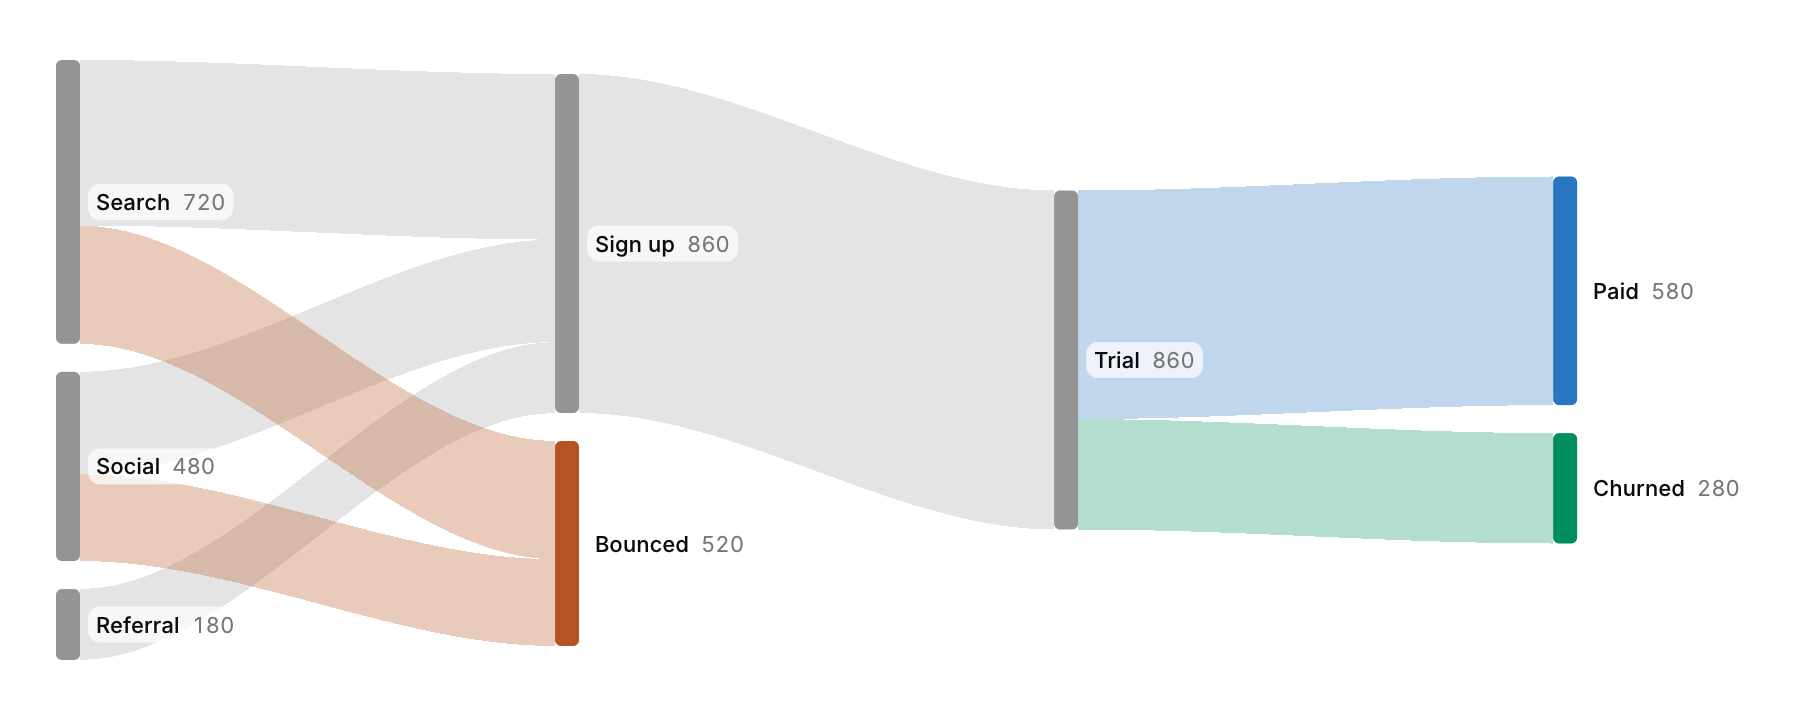
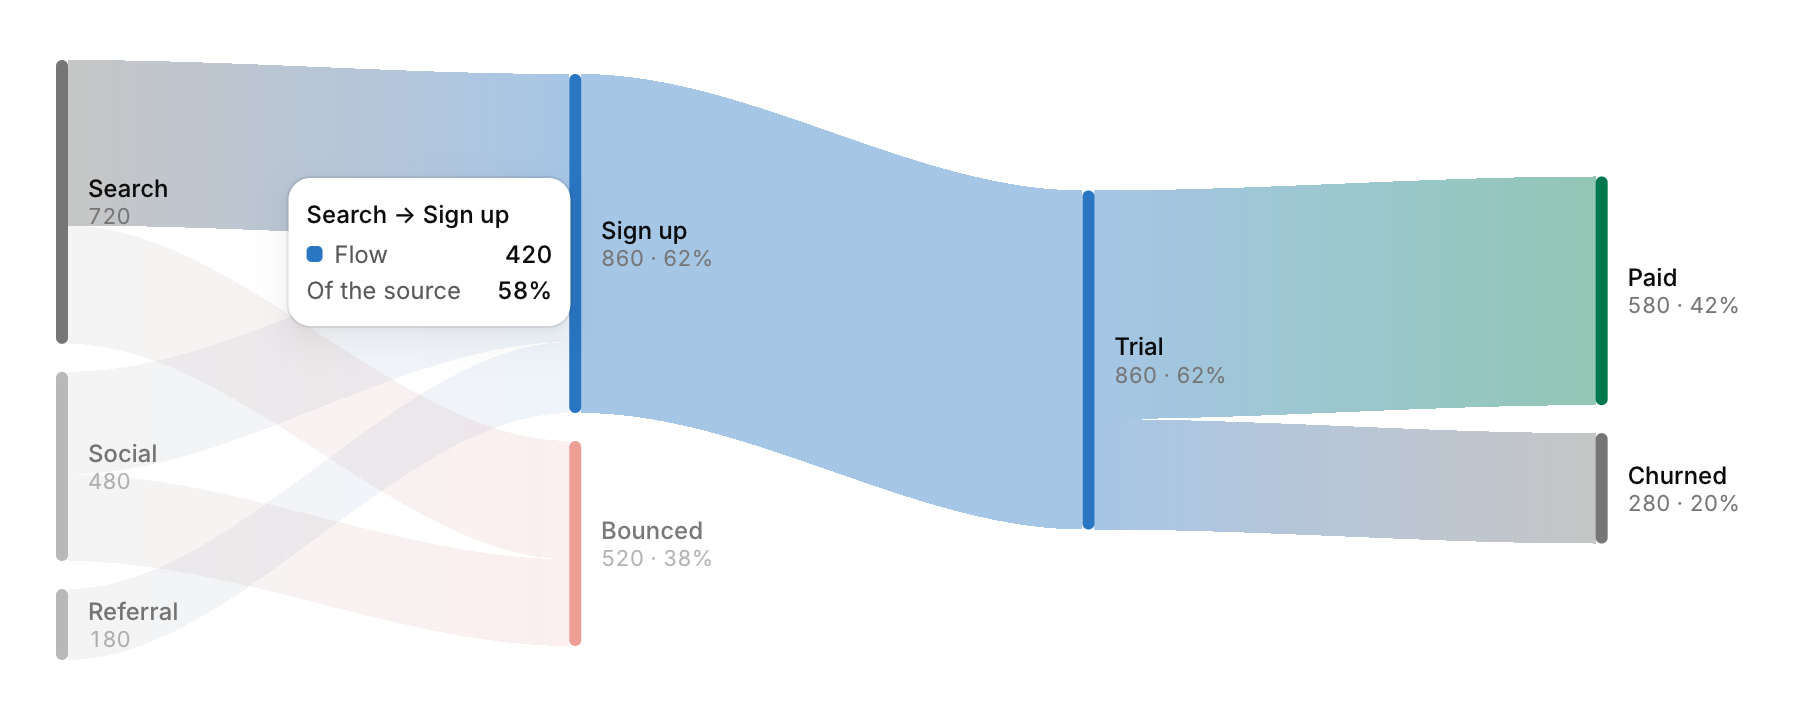
Sankey: slim nodes by meaning, shaded flows, traced paths
Flat bands crossed into a muddy blur, labels sat on dark plates over the
flows, and the nodes were wide gray bars. Nodes are now 6 point rounded
bars colored by meaning: the new `node_colors` option takes one color
per node, and nodes left unset fall back to the palette for outcomes and
neutral gray for sources and steps, as before.

Each flow fades from its source's color to its target's at a low
opacity. Hovering a node or a flow lights its whole path, everything
upstream and downstream of it, and dims the rest. Labels sit beside the
nodes on two lines, the name over the value and, past the sources, its
share of everything that leaves them; no plates.

A new test checks that a node takes the caller's color. The scene colors
the funnel by meaning and hovers a flow.

diff --git a/src/cui_viz.c b/src/cui_viz.c
@@ -940,8 +940,22 @@ typedef struct {
     float k;                 /* points per unit */
     float *in, *out;
     int *col; int maxcol;
-    int *color;              /* palette slot: sources in order, the rest inherit their main inflow */
+    int *color;              /* palette slot of an outcome, or -1 for neutral */
+    float total;             /* what leaves the sources: the whole the shares are of */
 } cui__sk_geo;
+
+/* A node's label is two lines: its name, then its value and (past the sources) its share of
+ * the whole, "860 · 62%". */
+static const char *cui__sk_value_text(cui_ctx *ui, const cui__sk_geo *g, int i, const char *fmt) {
+    const char *val = cui__fmt_value(ui, fmt, CUI_MAX(g->in[i], g->out[i]));
+    if (g->in[i] <= 0 || g->total <= 0) return val;
+    return cui__frame_printf(ui, "%s \xc2\xb7 %s", val, cui__pct(ui, CUI_MAX(g->in[i], g->out[i]), g->total));
+}
+static void cui__sk_label_widths(cui_ctx *ui, const cui__sk_geo *g, int i, const char *fmt, float *name_w, float *value_w) {
+    float fs = cui__fs(ui, ui->theme.text_sm), fx = cui__fs(ui, ui->theme.text_xs);
+    *name_w = cui__text_width(ui, CUI_FONT_MEDIUM, fs, g->names && g->names[i] ? g->names[i] : "", -1, false);
+    *value_w = cui__text_width(ui, CUI_FONT_BODY, fx, cui__sk_value_text(ui, g, i, fmt), -1, true);
+}
 
 static cui__sk_geo cui__sk_layout(cui_ctx *ui, cui_rect r, const char *const *names, int nn, const cui_sankey_link *links_in, int nl, float nw, const char *fmt) {
     cui__sk_geo g;
@@ -976,12 +990,16 @@ static cui__sk_geo cui__sk_layout(cui_ctx *ui, cui_rect r, const char *const *na
     /* an outcome that ends early (a drop off) stays at its own step; only one fed from the last step sits at the far right,
        so no ribbon has to cross a column of nodes to reach it */
     /* room on the right for the last column's labels */
-    float fs = cui__fs(ui, ui->theme.text_xs), right_w = 0;
+    float right_w = 0;
+    g.total = 0;
+    for (int i = 0; i < nn; i++) if (g.in[i] <= 0) g.total += g.out[i];
     if (g.maxcol > 0)
         for (int i = 0; i < nn; i++)
-            if (g.col[i] == g.maxcol && (g.in[i] > 0 || g.out[i] > 0))
-                right_w = CUI_MAX(right_w, cui__text_width(ui, CUI_FONT_MEDIUM, fs, names && names[i] ? names[i] : "", -1, false) + 6 +
-                                               cui__text_width(ui, CUI_FONT_BODY, fs, cui__fmt_value(ui, fmt, CUI_MAX(g.in[i], g.out[i])), -1, true) + 10);
+            if (g.col[i] == g.maxcol && (g.in[i] > 0 || g.out[i] > 0)) {
+                float nw2, vw2;
+                cui__sk_label_widths(ui, &g, i, fmt, &nw2, &vw2);
+                right_w = CUI_MAX(right_w, CUI_MAX(nw2, vw2) + 12);
+            }
     float span = r.w - right_w - nw;
     /* color goes to the outcomes, the largest first; sources and steps stay neutral, so the eye follows where things end up */
     g.color = cui__frame_alloc(ui, sizeof(int) * (size_t)CUI_MAX(1, nn));
@@ -1038,33 +1056,64 @@ static float cui__bez(float a, float b, float t) {   /* ease between two ends wi
     return a + (b - a) * s;
 }
 
-typedef struct { cui__sk_geo g; const char *format; float nw; float intro; int hover_node, hover_link; float t; cui__tip tip; } cui__sk_paint;
+typedef struct { cui__sk_geo g; const char *format; float nw; float intro; int hover_node, hover_link; float t; cui__tip tip; cui_color *node_c; } cui__sk_paint;
+
+/* A node's color: the caller's, else its palette slot (outcomes), else a neutral gray. */
+static cui_color cui__sk_node_color(cui_ctx *ui, const cui__sk_paint *p, const cui__sk_geo *g, int i) {
+    if (p->node_c && cui__color_set(p->node_c[i])) return cui_color_of(ui, p->node_c[i]);
+    return g->color[i] < 0 ? CUI_C(ui, TEXT_MUTED) : cui__viz_color(ui, (cui_color){ 0 }, g->color[i]);
+}
+
+/* The links on the hovered thing's path: everything upstream of where it starts and
+ * downstream of where it ends. A link hover starts and ends at that link. */
+static bool *cui__sk_path(cui_ctx *ui, const cui__sk_geo *g, int node, int link, bool *on_node) {
+    bool *on = cui__frame_alloc(ui, sizeof(bool) * (size_t)CUI_MAX(1, g->nl));
+    bool *up = cui__frame_alloc(ui, sizeof(bool) * (size_t)CUI_MAX(1, g->nn)), *down = cui__frame_alloc(ui, sizeof(bool) * (size_t)CUI_MAX(1, g->nn));
+    memset(on, 0, sizeof(bool) * (size_t)CUI_MAX(1, g->nl));
+    memset(up, 0, sizeof(bool) * (size_t)CUI_MAX(1, g->nn)); memset(down, 0, sizeof(bool) * (size_t)CUI_MAX(1, g->nn));
+    if (node >= 0) up[node] = down[node] = true;
+    else { up[g->links[link].from] = down[g->links[link].to] = true; on[link] = true; }
+    for (int it = 0; it < g->nn; it++) {   /* bounded, so a cycle cannot hang */
+        bool ch = false;
+        for (int l = 0; l < g->nl; l++) {
+            int a = g->links[l].from, b = g->links[l].to;
+            if (up[b] && !up[a]) { up[a] = true; ch = true; }
+            if (down[a] && !down[b]) { down[b] = true; ch = true; }
+        }
+        if (!ch) break;
+    }
+    for (int l = 0; l < g->nl; l++) if (up[g->links[l].to] || down[g->links[l].from]) on[l] = true;
+    for (int i = 0; i < g->nn; i++) on_node[i] = up[i] || down[i];
+    return on;
+}
 
 static void cui__paint_sankey(cui_ctx *ui, cui_node *n, void *data) {
     cui__sk_paint *p = data;
     cui_rect r = n->rect;
-    float fs = cui__fs(ui, ui->theme.text_xs);
-    cui_rect plot = { r.x, r.y, r.w - 0, r.h };
-    cui__sk_geo g = cui__sk_layout(ui, plot, p->g.names, p->g.nn, p->g.links, p->g.nl, p->nw, p->format);
+    float fs = cui__fs(ui, ui->theme.text_sm), fx = cui__fs(ui, ui->theme.text_xs);
+    cui__sk_geo g = cui__sk_layout(ui, r, p->g.names, p->g.nn, p->g.links, p->g.nl, p->nw, p->format);
     bool any = (p->hover_node >= 0 || p->hover_link >= 0) && p->t > 0.01f;
+    bool *node_on = cui__frame_alloc(ui, sizeof(bool) * (size_t)CUI_MAX(1, g.nn));
+    bool *link_on = any ? cui__sk_path(ui, &g, p->hover_node, p->hover_link, node_on) : NULL;
+    cui_color *nc = cui__frame_alloc(ui, sizeof(cui_color) * (size_t)CUI_MAX(1, g.nn));
+    for (int i = 0; i < g.nn; i++) nc[i] = cui__sk_node_color(ui, p, &g, i);
+    bool dark = ui->mode == CUI_THEME_DARK;
     const int seg = 28;
     cui_cvert *v = cui__frame_alloc(ui, sizeof(cui_cvert) * (size_t)(seg + 1) * 2);
     uint32_t *idx = cui__frame_alloc(ui, sizeof(uint32_t) * (size_t)seg * 6);
     for (int l = 0; l < g.nl; l++) {
+        /* a flow fades from its source's color to its target's, faint at rest and strong on the hovered path */
         int a = g.links[l].from, b = g.links[l].to;
         float th = g.links[l].value * g.k;
         float x0 = g.node[a].x + g.node[a].w, x1 = g.node[b].x;
         float reach = cui__clampf(p->intro, 0, 1);
-        bool hl = l == p->hover_link || a == p->hover_node || b == p->hover_node;
-        bool neutral = g.color[b] < 0;
-        cui_color col = neutral ? CUI_C(ui, TEXT_MUTED) : cui__viz_color(ui, (cui_color){ 0 }, g.color[b]);
-        float alpha = neutral ? (ui->mode == CUI_THEME_DARK ? 0.26f : 0.2f) : (ui->mode == CUI_THEME_DARK ? 0.38f : 0.3f);
-        if (any) alpha = hl ? cui__lerp(alpha, 0.6f, p->t) : cui__lerp(alpha, 0.1f, p->t);
-        cui_color c = cui_alpha(col, alpha);
+        float alpha = dark ? 0.2f : 0.18f;
+        if (any) alpha = link_on[l] ? cui__lerp(alpha, dark ? 0.48f : 0.42f, p->t) : cui__lerp(alpha, 0.08f, p->t);
         for (int i = 0; i <= seg; i++) {
             float t = (float)i / seg * reach;
             float x = x0 + (x1 - x0) * t;
             float yt = cui__bez(g.sy[l], g.ty[l], t);
+            cui_color c = cui_alpha(cui_mix(nc[a], nc[b], t), alpha);
             v[i * 2] = (cui_cvert){ x, yt, c };
             v[i * 2 + 1] = (cui_cvert){ x, yt + th, c };
         }
@@ -1077,40 +1126,23 @@ static void cui__paint_sankey(cui_ctx *ui, cui_node *n, void *data) {
     }
     for (int i = 0; i < g.nn; i++) {
         if (g.in[i] <= 0 && g.out[i] <= 0) continue;
-        cui_color col = g.color[i] < 0 ? CUI_C(ui, BORDER_STRONG) : cui__viz_color(ui, (cui_color){ 0 }, g.color[i]);
-        if (any && p->hover_node >= 0 && i != p->hover_node) col = cui_mix(col, CUI_C(ui, SURFACE), 0.3f * p->t);
-        cui_draw_rect(ui, g.node[i], CUI_CORNERS(3), col);
-        bool right = true;
-        float lx = right ? g.node[i].x + g.node[i].w + 8 : g.node[i].x - 8;
-        float ly = g.node[i].y + g.node[i].h * 0.5f;
+        cui_color col = nc[i];
+        float la = 1;
+        if (any && !node_on[i]) { col = cui_mix(col, CUI_C(ui, SURFACE), 0.5f * p->t); la = 1 - 0.45f * p->t; }
+        cui_draw_rect(ui, g.node[i], CUI_CORNERS(CUI_MIN(3.0f, g.node[i].w * 0.5f)), col);
+        /* the label beside the node: the name, then the value and share; no plate over the flows */
+        float lx = g.node[i].x + g.node[i].w + 10, ly = g.node[i].y + g.node[i].h * 0.5f;
         const char *nm = g.names && g.names[i] ? g.names[i] : "";
-        const char *val = cui__fmt_value(ui, p->format, CUI_MAX(g.in[i], g.out[i]));
-        float nmw = cui__text_width(ui, CUI_FONT_MEDIUM, fs, nm, -1, false);
-        if (right) {
-            float vw = cui__text_width(ui, CUI_FONT_BODY, fs, val, -1, true);
-            cui_color plate = cui_alpha(CUI_C(ui, SURFACE), ui->mode == CUI_THEME_DARK ? 0.5f : 0.7f);
-            /* room up to the next column: on a narrow chart the value goes under the name,
-               and a name that still does not fit is cut with an ellipsis */
-            float room = 1e9f;
-            if (g.col[i] < g.maxcol)
-                for (int j = 0; j < g.nn; j++)
-                    if (g.col[j] == g.col[i] + 1 && (g.in[j] > 0 || g.out[j] > 0)) room = CUI_MIN(room, g.node[j].x - lx - 6);
-            if (nmw + 6 + vw <= room) {
-                if (g.col[i] < g.maxcol) cui_draw_rect(ui, (cui_rect){ lx - 4, ly - 9, nmw + vw + 14, 18 }, CUI_CORNERS(6), plate);
-                cui__draw_text_at(ui, CUI_FONT_MEDIUM, fs, lx, ly, CUI__AT_LEFT, CUI_C(ui, FOREGROUND), nm, false);
-                cui__draw_text_at(ui, CUI_FONT_BODY, fs, lx + nmw + 6, ly, CUI__AT_LEFT, CUI_C(ui, TEXT_MUTED), val, true);
-            } else {
-                float tw = CUI_MAX(8.0f, room), bw = CUI_MIN(CUI_MAX(nmw, vw), tw);
-                float fh = cui__font_line_height(ui, CUI_FONT_MEDIUM, fs);
-                cui_draw_rect(ui, (cui_rect){ lx - 4, ly - 16, bw + 8, 32 }, CUI_CORNERS(6), plate);
-                cui__draw_text_ellipsis(ui, CUI_FONT_MEDIUM, fs, lx, ly - 7 - fh * 0.5f, tw, CUI_C(ui, FOREGROUND), nm, (int)strlen(nm), false);
-                cui__draw_text_ellipsis(ui, CUI_FONT_BODY, fs, lx, ly + 7 - fh * 0.5f, tw, CUI_C(ui, TEXT_MUTED), val, (int)strlen(val), true);
-            }
-        } else {
-            float vw = cui__text_width(ui, CUI_FONT_BODY, fs, val, -1, true);
-            cui__draw_text_at(ui, CUI_FONT_BODY, fs, lx, ly, CUI__AT_RIGHT, CUI_C(ui, TEXT_MUTED), val, true);
-            cui__draw_text_at(ui, CUI_FONT_MEDIUM, fs, lx - vw - 6, ly, CUI__AT_RIGHT, CUI_C(ui, FOREGROUND), nm, false);
-        }
+        const char *val = cui__sk_value_text(ui, &g, i, p->format);
+        float room = 1e9f;   /* up to the next column; a name that does not fit is cut with an ellipsis */
+        if (g.col[i] < g.maxcol)
+            for (int j = 0; j < g.nn; j++)
+                if (g.col[j] == g.col[i] + 1 && (g.in[j] > 0 || g.out[j] > 0)) room = CUI_MIN(room, g.node[j].x - lx - 6);
+        room = CUI_MAX(8.0f, room);
+        float nh = cui__font_line_height(ui, CUI_FONT_MEDIUM, fs), vh = cui__font_line_height(ui, CUI_FONT_BODY, fx);
+        float top = ly - (nh + vh) * 0.5f;
+        cui__draw_text_ellipsis(ui, CUI_FONT_MEDIUM, fs, lx, top, room, cui_alpha(CUI_C(ui, FOREGROUND), la), nm, (int)strlen(nm), false);
+        cui__draw_text_ellipsis(ui, CUI_FONT_BODY, fx, lx, top + nh, room, cui_alpha(CUI_C(ui, TEXT_MUTED), la), val, (int)strlen(val), true);
     }
     cui__tip_draw(ui, &p->tip);
 }
@@ -1124,7 +1156,7 @@ int cui_sankey_ex(cui_ctx *ui, const char *id_str, const char *const *nodes, int
     cui__viz_state *st = cui__viz_state_get(ui, id);
     cui_interact r = cui__interact(ui, id, 0);
     cui_rect pr = cui__prev_rect(ui, id);
-    float nw = o->node_width > 0 ? o->node_width : 12;
+    float nw = o->node_width > 0 ? o->node_width : 6;
     float h = o->height > 0 ? o->height : 300;
     int hn = -1, hl = -1;
     cui__sk_geo g = cui__sk_layout(ui, pr.w > 0 ? pr : (cui_rect){ 0, 0, 600, h }, nodes, nn, links ? links : (cui_sankey_link[1]){ { 0, 0, 0 } }, nl, nw, o->format);
@@ -1149,6 +1181,10 @@ int cui_sankey_ex(cui_ctx *ui, const char *id_str, const char *const *nodes, int
     memset(p, 0, sizeof *p);
     p->g = g;   /* names and the filtered links; the paint lays out again in its own rect */
     p->format = o->format; p->nw = nw;
+    if (o->node_colors && nn > 0) {
+        p->node_c = cui__frame_alloc(ui, sizeof(cui_color) * (size_t)nn);
+        memcpy(p->node_c, o->node_colors, sizeof(cui_color) * (size_t)nn);
+    }
     p->intro = st->intro.x; p->t = st->hover_t;
     p->hover_node = p->hover_link = -1;
     if (st->hover_t > 0.01f) {
@@ -1164,7 +1200,7 @@ int cui_sankey_ex(cui_ctx *ui, const char *id_str, const char *const *nodes, int
     } else if (p->hover_link >= 0) {
         cui_sankey_link *L = &g.links[p->hover_link];
         p->tip.title = cui__frame_printf(ui, "%s \xe2\x86\x92 %s", nodes && nodes[L->from] ? nodes[L->from] : "", nodes && nodes[L->to] ? nodes[L->to] : "");
-        cui__tip_row(&p->tip, "Flow", cui__fmt_value(ui, o->format, L->value), g.color[L->to] < 0 ? CUI_C(ui, TEXT_MUTED) : cui__viz_color(ui, (cui_color){ 0 }, g.color[L->to]));
+        cui__tip_row(&p->tip, "Flow", cui__fmt_value(ui, o->format, L->value), cui__sk_node_color(ui, p, &g, L->to));
         if (g.out[L->from] > 0) cui__tip_row(&p->tip, "Of the source", cui__pct(ui, L->value, g.out[L->from]), cui__rgba(0, 0, 0, 0));
     } else p->tip.title = NULL;
     cui__viz_node(ui, id, o->width.kind ? o->width : CUI_FILL, CUI_PX(h), cui__paint_sankey, p, hover >= 0);

diff --git a/tests/test_main.c b/tests/test_main.c
@@ -3178,6 +3178,30 @@ static void test_treemap_select(void) {
     cui_destroy(ui);
 }
 
+/* sankey node colors: a node takes the caller's color; one left unset falls back */
+static void build_sankey_colors(cui_ctx *ui, void *u) {
+    (void)u;
+    static const char *nodes[] = { "A", "B" };
+    static const cui_sankey_link links[] = { { 0, 1, 10 } };
+    const cui_color colors[] = { CUI_RGB(0xff0000), { 0 } };
+    cui_sankey(ui, "sk", nodes, 2, links, 1, .width = CUI_PX(300), .height = 120, .node_colors = colors);
+}
+static void test_sankey_node_colors(void) {
+    printf("sankey: nodes take the caller's colors\n");
+    cui_ctx *ui = cui_create(&(cui_ctx_desc){ .renderer = cui_sw_iface(g_sw) });
+    cui_set_viewport(ui, 320, 140, 1);
+    run(ui, build_sankey_colors, NULL, 60);
+    cui_rect r = cui_get_rect(ui, cui_make_id(ui, "sk"));
+    const cui_draw_data *dd = cui_get_draw_data(ui);
+    unsigned char *px = calloc((size_t)dd->width_px * dd->height_px, 4);
+    cui_sw_render(g_sw, dd, px, dd->width_px, dd->height_px, dd->width_px * 4, CUI_SW_RGBA);
+    const unsigned char *a = px + ((int)(r.y + r.h * 0.5f) * dd->width_px + (int)(r.x + 3)) * 4;
+    CHECK(a[0] > 240 && a[1] < 20 && a[2] < 20);                  /* the source node in red */
+    CHECK(!(a[0] == a[1] && a[1] == a[2]));
+    free(px);
+    cui_destroy(ui);
+}
+
 /* draw data and renderer ------------------------------------------------ */
 
 static void build_rect(cui_ctx *ui, void *u) {
@@ -7849,6 +7873,7 @@ int main(void) {
     test_series_palette();
     test_radial_gauge_styles();
     test_treemap_select();
+    test_sankey_node_colors();
     test_renderer();
     test_scroll_fade();
     test_pretty_wrap();

diff --git a/include/cui/cui.h b/include/cui/cui.h
@@ -1908,7 +1908,9 @@ CUI_API int cui_radar_chart_ex(cui_ctx *ui, const char *id, const cui_series *se
 typedef struct cui_funnel_opts { int _; cui_size width; float height; const char *format; cui_color color; } cui_funnel_opts;
 CUI_API int cui_funnel_ex(cui_ctx *ui, const char *id, const cui_viz_item *stages, int count, const cui_funnel_opts *opts);
 
-/* Sankey: flows between nodes; columns follow the links from the sources. */
+/* Sankey: flows between nodes; columns follow the links from the sources. Slim nodes in
+ * the colors you give them, flows shaded from source to target color, and hovering a node
+ * or a flow lights its whole path upstream and downstream. */
 typedef struct cui_sankey_link {
     int from;                  /* index of the node the flow leaves */
     int to;                    /* index of the node the flow enters */
@@ -1919,7 +1921,8 @@ typedef struct cui_sankey_opts {
     cui_size width;
     float height;
     const char *format;
-    float node_width;          /* width of the node bars in points, default 12 */
+    float node_width;          /* width of the node bars in points, default 6 */
+    const cui_color *node_colors;   /* one per node, colored by meaning; `NULL`, or an unset entry, falls back to the palette for outcomes and neutral gray for sources and steps */
 } cui_sankey_opts;
 CUI_API int cui_sankey_ex(cui_ctx *ui, const char *id, const char *const *nodes, int node_count, const cui_sankey_link *links, int link_count,
                           const cui_sankey_opts *opts);

diff --git a/tests/component_shots.c b/tests/component_shots.c
@@ -2249,13 +2249,21 @@ SCENE(candlestick) {
         cui_candlestick(ui, "nrth", cs, N, .labels = labels, .overlays = &ov, .overlay_count = 1, .height = 300);
     }
 }
-SCENE(sankey) {
+static void body_sankey(cui_ctx *ui);
+static void scene_sankey(cui_ctx *ui, int f) {
+    /* the Search to Sign up flow, to show the path it lights */
+    if (f < 0) { cui_rect r = cui_get_rect(ui, cui_make_id(ui, "flow")); if (-f - 1 == 40 && r.w > 0) cui_input_mouse_move(ui, r.x + r.w * 0.12f, r.y + 40); return; }
+    frame_wrap(ui, body_sankey);
+}
+static void body_sankey(cui_ctx *ui) {
     static const char *nodes[] = { "Search", "Social", "Referral", "Sign up", "Bounced", "Trial", "Paid", "Churned" };
     static const cui_sankey_link links[] = {
         { 0, 3, 420 }, { 1, 3, 260 }, { 2, 3, 180 }, { 0, 4, 300 }, { 1, 4, 220 },
         { 3, 5, 860 }, { 5, 6, 580 }, { 5, 7, 280 },
     };
-    cui_sankey(ui, "flow", nodes, 8, links, 8, .height = 300);
+    /* colored by meaning: neutral sources, the funnel in the first series color, paid green, lost red */
+    const cui_color colors[] = { { 0 }, { 0 }, { 0 }, CUI_COLOR_SERIES(0), CUI_COLOR_DANGER, CUI_COLOR_SERIES(0), CUI_COLOR_SUCCESS, CUI_COLOR_TEXT_MUTED };
+    cui_sankey(ui, "flow", nodes, 8, links, 8, .height = 300, .node_colors = colors);
 }
 SCENE(bar_list_rings) {
     static const cui_viz_item pages[] = { { "/docs", 4820 }, { "/", 3920 }, { "/gallery", 2410 }, { "/blog/fast-ui-in-c", 1830 }, { "/download", 1210 } };

diff --git a/docs/components-more.md b/docs/components-more.md
@@ -1712,10 +1712,11 @@ Flows between stages, drawn as ribbons whose width follows the amount.
 ```c
 static const char *nodes[] = { "Search", "Social", "Referral", "Sign up", "Bounced", "Trial", "Paid", "Churned" };
 static const cui_sankey_link links[] = { { 0, 3, 420 }, { 1, 3, 260 }, { 3, 5, 860 }, { 5, 6, 580 } /* ... */ };
-cui_sankey(ui, "flow", nodes, 8, links, 8, .height = 300);
+const cui_color colors[] = { { 0 }, { 0 }, { 0 }, CUI_COLOR_SERIES(0), CUI_COLOR_DANGER, CUI_COLOR_SERIES(0), CUI_COLOR_SUCCESS, CUI_COLOR_TEXT_MUTED };
+cui_sankey(ui, "flow", nodes, 8, links, 8, .height = 300, .node_colors = colors);
 ```
 
-Columns follow the links from the sources, and an outcome sits at the step it is reached from, so a drop off stays beside the step it left and no ribbon crosses a column of nodes. Color goes to the outcomes, the largest first, and each ribbon takes the color of where it ends; sources and steps stay neutral gray, so the eye follows where things end up. Hover a node to highlight its links, or a ribbon to see the flow and its share of the source. A cycle in the links does not hang the layout.
+Columns follow the links from the sources, and an outcome sits at the step it is reached from, so a drop off stays beside the step it left and no ribbon crosses a column of nodes. Nodes are slim rounded bars (`node_width`, 6 points by default) colored by meaning: give `node_colors` one color per node, and any node left unset (or every node, without `node_colors`) falls back to the palette for outcomes, the largest first, and neutral gray for sources and steps. Each ribbon fades from its source's color to its target's at a low opacity. Labels sit beside the nodes: the name, then the value and, past the sources, its share of everything that leaves them ("860 · 62%"); a label that runs into the next column is cut with an ellipsis. Hover a node or a ribbon to light its whole path, everything upstream of it and everything downstream, and to see its values in a tooltip. A cycle in the links does not hang the layout.
 
 ### Bar list and activity rings
 

diff --git a/CHANGELOG.md b/CHANGELOG.md
@@ -16,6 +16,7 @@ What changed in CUI, newest first. Every component mentioned here runs live in t
 - **Heatmap and calendar heatmap** count in five steps from the empty surface up to the accent (a gray ramp under the neutral accent), so zero reads as empty and the steps read at a glance. Heatmap cells are smaller with real gaps, a Less to More key replaces the gradient scale, and hovering a cell rings it and lights its row and column labels.
 - **Radial gauge** drops the needle and the tick ring for three calmer styles, with the value as the hero: a segmented arc lit in the band colors only up to the value, a clean arc with round caps, its ends labelled and a target marker, and a slim ring with a line of detail. New options: `style` (`CUI_GAUGE_AUTO` picks the segments when there are `bands`, the arc otherwise), `detail` and `color`, and a band `name` shown as a chip while the value is in that band. The default sweep is now 270 degrees.
 - **Treemap and radar.** Treemap tiles are neutral, graded by size, with 3 point gaps, a label, a value and a share figure, and only the hovered or selected tile in the accent; small tiles keep a compact value. New `selected` option: a click selects a tile and a second click clears it. The radar has hairline rings, light fills under crisp outlines, points only on the series you point at (the last one otherwise) with a chip of the hovered value, and ring values kept off the lines.
+- **Sankey** nodes are slim (6 points) and colored by meaning, with the new `node_colors` option and the palette or neutral gray for the rest. Flows fade from their source's color to their target's, hovering a node or a flow lights its whole path upstream and downstream, and labels sit beside the nodes as the name over the value and share, with no plates over the flows.
 
 ### Fixed
 
